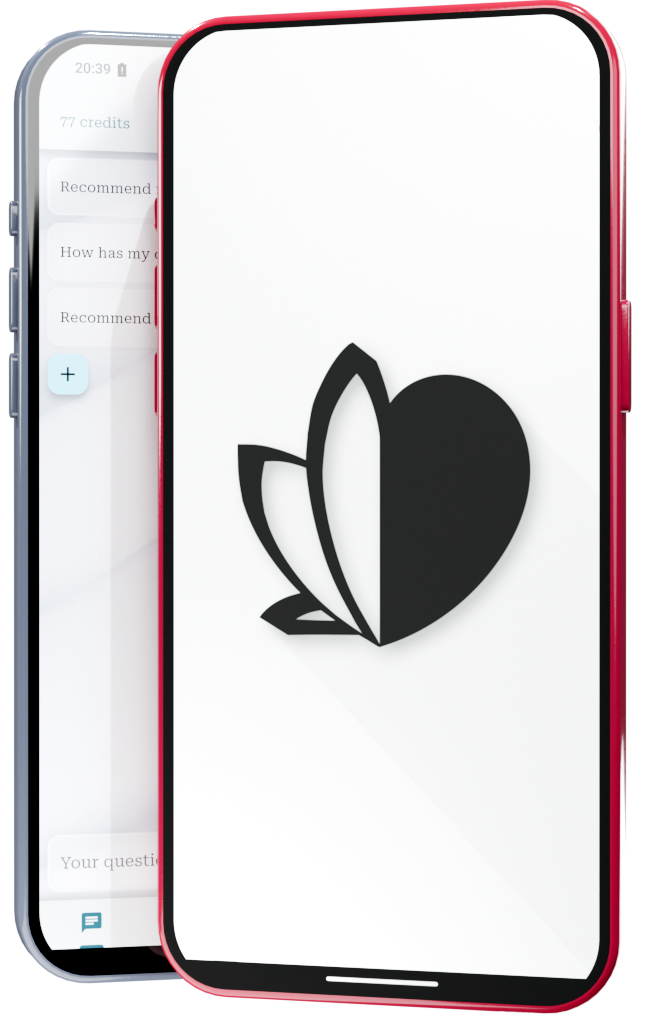
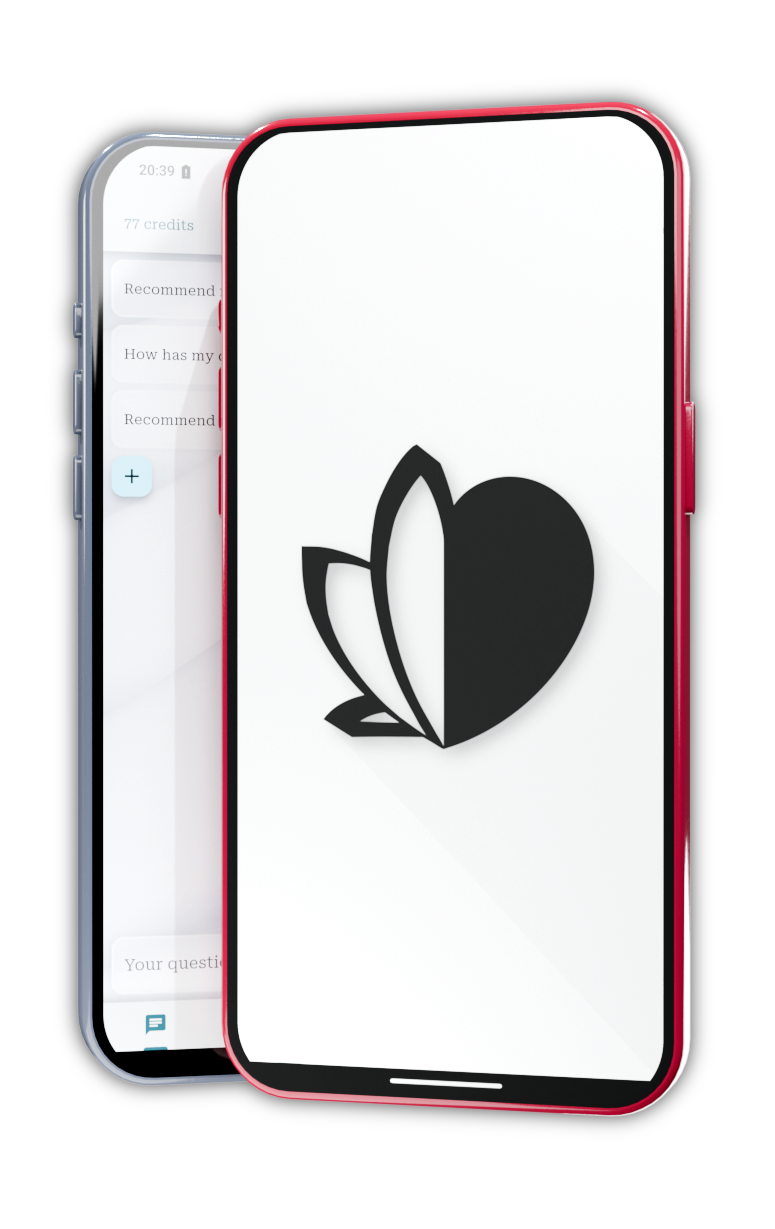
Added shadow to title phones

diff --git a/index.html b/index.html
@@ -136,7 +136,7 @@
       </div>
 
       <div>
-        <img class="hide-sm px-5" height="400px" src="/images/RenderedPhones.png" />
+        <img class="hide-sm px-5" height="450px" src="/images/RenderedPhones.png" />
       </div>
     </div>
   </div>
